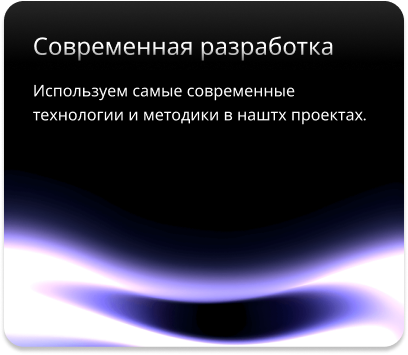
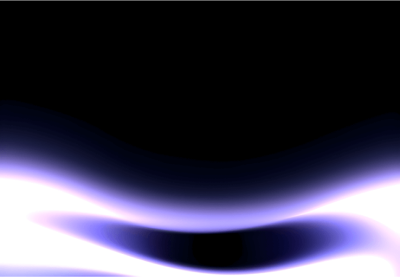
main

diff --git a/src/component/Body/Offers/Offers.jsx b/src/component/Body/Offers/Offers.jsx
@@ -4,14 +4,21 @@ import { Card } from "./Card/Card";
 import bg1 from "../../../assets/bg.png";
 import bg2 from "../../../assets/bg2.png";
 import bg3 from "../../../assets/bg3.png";
+import { motion } from "framer-motion";
+import { offersTitleAnimations } from "../../animations/animations";
 
 export const Offers = () => {
   return (
-    <div className={styels.Offers}>
+    <motion.div
+      initial="hidden"
+      whileInView="visible"
+      viewport={{ amount: 0.3, once: true }}
+      className={styels.Offers}
+    >
       <div className={styels.wrapper}>
-        <div className={styels.title}>
+        <motion.div variants={offersTitleAnimations} transition={{ duration: 0.7 }}  className={styels.title}>
           Что наша комания готова вам предложить на основе ваших предпочтений{" "}
-        </div>
+        </motion.div>
         <div className={styels.wrapper_card}>
           <Card
             title="Современный дизайн"
@@ -28,9 +35,8 @@ export const Offers = () => {
             text="Предастовляем поддержку  вашему прооекту по договору."
             bg={bg3}
           />
-          
         </div>
       </div>
-    </div>
+    </motion.div>
   );
 };

diff --git a/src/component/Body/Offers/Card/Card.jsx b/src/component/Body/Offers/Card/Card.jsx
@@ -1,14 +1,32 @@
 import React from "react";
 import styels from "./Card.module.css";
+import { motion } from "framer-motion";
+import { offersCardAnimations,offersCardTextAnimations } from "../../../animations/animations";
 
 export const Card = (props) => {
   return (
-    <div className={styels.Card}>
+    <motion.div
+      initial="hidden"
+      once={true}
+      whileInView="visible"
+      variants={offersCardAnimations}
+      transition={{ duration: 0.8 }}
+      viewport={{ amount: 0.3, once: true }}
+      className={styels.Card}
+    >
       <div className={styels.wrap}>
-        <div className={styels.title}>{props.title}</div>
-        <div className={styels.text}>{props.text}</div>
+        <motion.div
+        
+          variants={offersCardTextAnimations}
+          transition={{ duration: 0.6 }}
+          className={styels.title}
+        >
+          {props.title}
+        </motion.div>
+        <motion.div variants={offersCardTextAnimations}
+          transition={{ duration: 0.7 }} className={styels.text}>{props.text}</motion.div>
       </div>
       <img className={styels.bg} src={props.bg} alt="" />
-    </div>
+    </motion.div>
   );
 };

diff --git a/src/component/Body/Offers/Offers.module.css b/src/component/Body/Offers/Offers.module.css
@@ -10,8 +10,25 @@
     display: flex;
     justify-content: center;
     align-items: center;
+   
 }
 .wrapper_card{
     display: flex;
+    justify-content: space-between;
+    margin-bottom: 48px;
+    
 }
+.title{
+    text-align: center;
+    font-size: 56px;
+    font-style: normal;
+    font-weight: 500;
+    line-height: 67.2px;
+    background: linear-gradient(180deg, #FFF 50%, rgba(255, 255, 255, 0.66) 76%, rgba(255, 255, 255, 0.33) 100%);
+    background-clip: text;
+    -webkit-background-clip: text;
+    -webkit-text-fill-color: transparent;
+    margin-bottom: 79.19px;
+}
+
 

diff --git a/src/component/animations/animations.js b/src/component/animations/animations.js
@@ -21,4 +21,36 @@ export const headerTextAnimations = {
       opacity: 1,
     },
   };
+
+  export const offersTitleAnimations = {
+    hidden:{
+      y: 100,
+      opacity: 0,
+    },
+    visible:{
+      y: 0,
+      opacity: 1,
+    }
+  }
+
+  export const offersCardAnimations = {
+    hidden:{
+      y: 100,
+      opacity: 0,
+    },
+    visible:{
+      y: 0,
+      opacity: 1,
+    }
+  }
+  export const offersCardTextAnimations = {
+    hidden:{
+      y: 50,
+      opacity: 0,
+    },
+    visible:{
+      y: 0,
+      opacity: 1,
+    }
+  }
   

diff --git a/src/component/Header/Header.module.css b/src/component/Header/Header.module.css
@@ -25,10 +25,14 @@
     font-size: 56px;
     font-weight: bold;
     width: 539px;
+    background: linear-gradient(180deg, #D9D9D9 68.16%, rgba(217, 217, 217, 0.00) 107.51%);
+    background-clip: text;
+    -webkit-background-clip: text;
+    -webkit-text-fill-color: transparent;
 }
 .card_img{
    width: 630px;
-    
+   pointer-events: none
     
 }
 .text{

diff --git a/src/component/Body/Offers/Card/Card.module.css b/src/component/Body/Offers/Card/Card.module.css
@@ -10,7 +10,8 @@
     width: 100%;
     position: absolute;
     z-index: 1;
-    top: 20%
+    top: 20%;
+    pointer-events: none;
   }
   
   .wrap{
